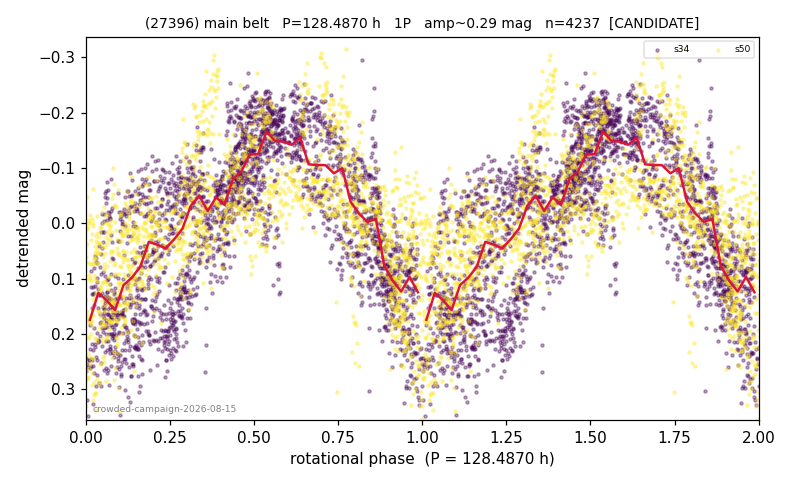
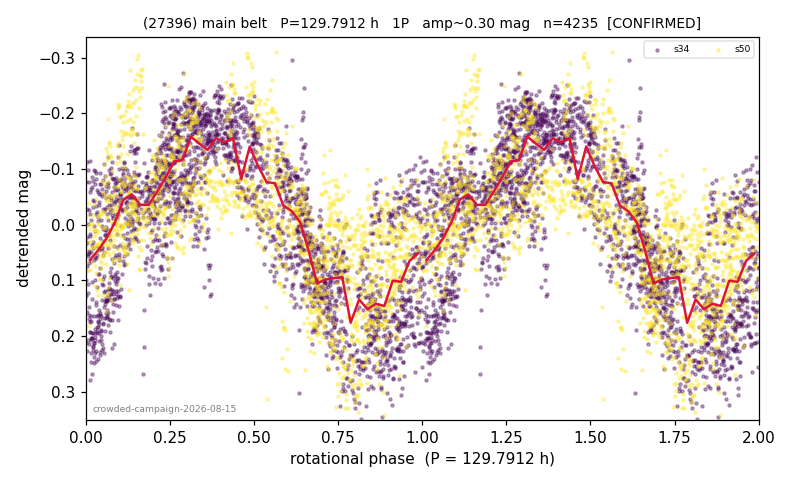
feat: (1473) and (27396) promoted with ZTF-refined periods (138.945h, 129.791h)
ZTF joint-fit blind detections (FAP 1.2e-45 and 1.9e-60) refine both periods
1.0-1.7% off the TESS-adopted values; TESS is width-agnostic (or prefers ZTF
on its longest baseline), so the multi-year baseline wins (precedent 18070).
The near-comb and red-noise ceilings dissolve at the refined values.

diff --git a/GALLERY.md b/GALLERY.md
@@ -15,9 +15,9 @@ The programme's target class. Rotation this slow is hard to reach from the groun
 | <a href='plots/53365.png'><img src='plots/thumbs/53365.jpg' width='210'></a><br>**(53365)** 190.07 h · 2P · U=1<br>[reasoning](objects/53365.md) · [plot](plots/53365.png) | <a href='plots/6740.png'><img src='plots/thumbs/6740.jpg' width='210'></a><br>**(6740)** 189.62 h · ambiguous · U=1<br>[reasoning](objects/6740.md) · [plot](plots/6740.png) | <a href='plots/3469.png'><img src='plots/thumbs/3469.jpg' width='210'></a><br>**(3469)** 180.88 h · 2P · U=2<br>[reasoning](objects/3469.md) · [plot](plots/3469.png) | <a href='plots/6162.png'><img src='plots/thumbs/6162.jpg' width='210'></a><br>**(6162)** 167.68 h · 2P · U=2<br>[reasoning](objects/6162.md) · [plot](plots/6162.png) |
 | <a href='plots/2024.png'><img src='plots/thumbs/2024.jpg' width='210'></a><br>**(2024)** 167.52 h · 2P · U=2<br>[reasoning](objects/2024.md) · [plot](plots/2024.png) | <a href='plots/5269.png'><img src='plots/thumbs/5269.jpg' width='210'></a><br>**(5269)** 161.70 h · 2P · U=1<br>[reasoning](objects/5269.md) · [plot](plots/5269.png) | <a href='plots/3440.png'><img src='plots/thumbs/3440.jpg' width='210'></a><br>**(3440)** 158.43 h · 2P · U=2<br>[reasoning](objects/3440.md) · [plot](plots/3440.png) | <a href='plots/4698.png'><img src='plots/thumbs/4698.jpg' width='210'></a><br>**(4698)** 158.30 h · 2P · U=2<br>[reasoning](objects/4698.md) · [plot](plots/4698.png) |
 | <a href='plots/8214.png'><img src='plots/thumbs/8214.jpg' width='210'></a><br>**(8214)** 158.26 h · 2P · U=2<br>[reasoning](objects/8214.md) · [plot](plots/8214.png) | <a href='plots/7389.png'><img src='plots/thumbs/7389.jpg' width='210'></a><br>**(7389)** 157.34 h · 2P · U=2<br>[reasoning](objects/7389.md) · [plot](plots/7389.png) | <a href='plots/2401.png'><img src='plots/thumbs/2401.jpg' width='210'></a><br>**(2401)** 153.69 h · 2P · U=1<br>[reasoning](objects/2401.md) · [plot](plots/2401.png) | <a href='plots/2705.png'><img src='plots/thumbs/2705.jpg' width='210'></a><br>**(2705)** 150.01 h · 2P · U=2<br>[reasoning](objects/2705.md) · [plot](plots/2705.png) |
-| <a href='plots/5844.png'><img src='plots/thumbs/5844.jpg' width='210'></a><br>**(5844)** 148.10 h · 1P · U=2<br>[reasoning](objects/5844.md) · [plot](plots/5844.png) | <a href='plots/7068.png'><img src='plots/thumbs/7068.jpg' width='210'></a><br>**(7068)** 144.99 h · 2P · U=2<br>[reasoning](objects/7068.md) · [plot](plots/7068.png) | <a href='plots/14179.png'><img src='plots/thumbs/14179.jpg' width='210'></a><br>**(14179)** 141.81 h · 2P · U=1<br>[reasoning](objects/14179.md) · [plot](plots/14179.png) | <a href='plots/1473.png'><img src='plots/thumbs/1473.jpg' width='210'></a><br>**(1473)** 141.41 h · 2P · U=1<br>[reasoning](objects/1473.md) · [plot](plots/1473.png) |
-| <a href='plots/16785.png'><img src='plots/thumbs/16785.jpg' width='210'></a><br>**(16785)** 139.88 h · 1P · U=1<br>[reasoning](objects/16785.md) · [plot](plots/16785.png) | <a href='plots/2451.png'><img src='plots/thumbs/2451.jpg' width='210'></a><br>**(2451)** 138.36 h · 2P · U=2<br>[reasoning](objects/2451.md) · [plot](plots/2451.png) | <a href='plots/4725.png'><img src='plots/thumbs/4725.jpg' width='210'></a><br>**(4725)** 137.36 h · 2P · U=1<br>[reasoning](objects/4725.md) · [plot](plots/4725.png) | <a href='plots/10505.png'><img src='plots/thumbs/10505.jpg' width='210'></a><br>**(10505)** 133.31 h · 2P · U=2<br>[reasoning](objects/10505.md) · [plot](plots/10505.png) |
-| <a href='plots/2866.png'><img src='plots/thumbs/2866.jpg' width='210'></a><br>**(2866)** 130.77 h · 2P · U=2<br>[reasoning](objects/2866.md) · [plot](plots/2866.png) | <a href='plots/29622.png'><img src='plots/thumbs/29622.jpg' width='210'></a><br>**(29622)** 130.64 h · 2P · U=1<br>[reasoning](objects/29622.md) · [plot](plots/29622.png) | <a href='plots/27396.png'><img src='plots/thumbs/27396.jpg' width='210'></a><br>**(27396)** 128.49 h · 1P · U=1<br>[reasoning](objects/27396.md) · [plot](plots/27396.png) | <a href='plots/6574.png'><img src='plots/thumbs/6574.jpg' width='210'></a><br>**(6574)** 125.13 h · 2P · U=2<br>[reasoning](objects/6574.md) · [plot](plots/6574.png) |
+| <a href='plots/5844.png'><img src='plots/thumbs/5844.jpg' width='210'></a><br>**(5844)** 148.10 h · 1P · U=2<br>[reasoning](objects/5844.md) · [plot](plots/5844.png) | <a href='plots/7068.png'><img src='plots/thumbs/7068.jpg' width='210'></a><br>**(7068)** 144.99 h · 2P · U=2<br>[reasoning](objects/7068.md) · [plot](plots/7068.png) | <a href='plots/14179.png'><img src='plots/thumbs/14179.jpg' width='210'></a><br>**(14179)** 141.81 h · 2P · U=1<br>[reasoning](objects/14179.md) · [plot](plots/14179.png) | <a href='plots/16785.png'><img src='plots/thumbs/16785.jpg' width='210'></a><br>**(16785)** 139.88 h · 1P · U=1<br>[reasoning](objects/16785.md) · [plot](plots/16785.png) |
+| <a href='plots/1473.png'><img src='plots/thumbs/1473.jpg' width='210'></a><br>**(1473)** 138.94 h · 2P · U=2<br>[reasoning](objects/1473.md) · [plot](plots/1473.png) | <a href='plots/2451.png'><img src='plots/thumbs/2451.jpg' width='210'></a><br>**(2451)** 138.36 h · 2P · U=2<br>[reasoning](objects/2451.md) · [plot](plots/2451.png) | <a href='plots/4725.png'><img src='plots/thumbs/4725.jpg' width='210'></a><br>**(4725)** 137.36 h · 2P · U=1<br>[reasoning](objects/4725.md) · [plot](plots/4725.png) | <a href='plots/10505.png'><img src='plots/thumbs/10505.jpg' width='210'></a><br>**(10505)** 133.31 h · 2P · U=2<br>[reasoning](objects/10505.md) · [plot](plots/10505.png) |
+| <a href='plots/2866.png'><img src='plots/thumbs/2866.jpg' width='210'></a><br>**(2866)** 130.77 h · 2P · U=2<br>[reasoning](objects/2866.md) · [plot](plots/2866.png) | <a href='plots/29622.png'><img src='plots/thumbs/29622.jpg' width='210'></a><br>**(29622)** 130.64 h · 2P · U=1<br>[reasoning](objects/29622.md) · [plot](plots/29622.png) | <a href='plots/27396.png'><img src='plots/thumbs/27396.jpg' width='210'></a><br>**(27396)** 129.79 h · 1P · U=2<br>[reasoning](objects/27396.md) · [plot](plots/27396.png) | <a href='plots/6574.png'><img src='plots/thumbs/6574.jpg' width='210'></a><br>**(6574)** 125.13 h · 2P · U=2<br>[reasoning](objects/6574.md) · [plot](plots/6574.png) |
 | <a href='plots/6614.png'><img src='plots/thumbs/6614.jpg' width='210'></a><br>**(6614)** 120.43 h · 2P · U=1<br>[reasoning](objects/6614.md) · [plot](plots/6614.png) | <a href='plots/10561.png'><img src='plots/thumbs/10561.jpg' width='210'></a><br>**(10561)** 118.97 h · 2P · U=1<br>[reasoning](objects/10561.md) · [plot](plots/10561.png) | <a href='plots/15286.png'><img src='plots/thumbs/15286.jpg' width='210'></a><br>**(15286)** 118.76 h · 1P · U=2<br>[reasoning](objects/15286.md) · [plot](plots/15286.png) | <a href='plots/7887.png'><img src='plots/thumbs/7887.jpg' width='210'></a><br>**(7887)** 111.71 h · 2P · U=2<br>[reasoning](objects/7887.md) · [plot](plots/7887.png) |
 | <a href='plots/6468.png'><img src='plots/thumbs/6468.jpg' width='210'></a><br>**(6468)** 110.49 h · 2P · U=1<br>[reasoning](objects/6468.md) · [plot](plots/6468.png) | <a href='plots/4164.png'><img src='plots/thumbs/4164.jpg' width='210'></a><br>**(4164)** 109.47 h · 2P · U=1<br>[reasoning](objects/4164.md) · [plot](plots/4164.png) | <a href='plots/14720.png'><img src='plots/thumbs/14720.jpg' width='210'></a><br>**(14720)** 108.08 h · 2P · U=2<br>[reasoning](objects/14720.md) · [plot](plots/14720.png) | <a href='plots/8513.png'><img src='plots/thumbs/8513.jpg' width='210'></a><br>**(8513)** 107.54 h · 1P · U=2<br>[reasoning](objects/8513.md) · [plot](plots/8513.png) |
 | <a href='plots/2886.png'><img src='plots/thumbs/2886.jpg' width='210'></a><br>**(2886)** 107.23 h · 2P · U=1<br>[reasoning](objects/2886.md) · [plot](plots/2886.png) | <a href='plots/5297.png'><img src='plots/thumbs/5297.jpg' width='210'></a><br>**(5297)** 106.92 h · 2P · U=2<br>[reasoning](objects/5297.md) · [plot](plots/5297.png) | <a href='plots/49973.png'><img src='plots/thumbs/49973.jpg' width='210'></a><br>**(49973)** 104.83 h · 2P · U=1<br>[reasoning](objects/49973.md) · [plot](plots/49973.png) | <a href='plots/7631.png'><img src='plots/thumbs/7631.jpg' width='210'></a><br>**(7631)** 102.66 h · 2P · U=1<br>[reasoning](objects/7631.md) · [plot](plots/7631.png) |

diff --git a/objects/1473.md b/objects/1473.md
@@ -1,16 +1,16 @@
 ---
 number: 1473
 family: Npa-ext
-P_rot_h: 141.41
+P_rot_h: 138.945
 shape: 2P
-status: CANDIDATE
-quality_U: 1
+status: CONFIRMED
+quality_U: 2
 updated: 2026-07-30
 ---
 
 # (1473)
 
-**Adopted:** 141.41 h, 2P, CANDIDATE
+**Adopted:** 138.945 h, 2P, CONFIRMED
 
 <!-- AUTO:START (regenerated from pipeline outputs; do not hand-edit this block) -->
 ## Evidence (auto)
@@ -26,12 +26,13 @@ Detected in 2 sector(s):
 - DIA (de-comb): **NOT RUN for this lot.** No de-comb verdict exists for this object, so momentum-dump contamination has not been excluded by that test here.
 - Coverage: **2 sector(s)**, best sector covers **8.77 cycles** of the adopted period. Measured periodogram peak width 5% of the period, i.e. about **+/- 1.403 h** (1 sigma); the decimal places in the adopted value are not a precision claim.
 - Factor of two: **not stated**, which is a defect in this entry.
-- Gates: FAP<1e-3 and power>=0.10 per detecting sector; single strong sector (candidate ceiling).
+- Gates: FAP<1e-3 and power>=0.10 per detecting sector; >=2 sectors agree (harmonic-aware).
 - Adopted shape: **2P** (folded-amplitude rule; pipeline agrees).
 
 ### Why this row reads the way it does
 
 - crowded-field campaign, adversarial review 2026-08-15: null-calibrated gate 0/200 both sectors, half-split ok (dev<=4.8%), peaks 71.5/69.8h, folded amp 0.418 -> 2P; CEILING: P_phot 70.7h within 1.8% of the 72h=24x3 line and FIELD CONTROL borderline on s98 (36x vs the 39x bar; s9 clean at 99x) -> CANDIDATE until a third epoch
+- PERIOD REFINED + PROMOTED 2026-08-15 via ZTF joint-fit: multi-year blind detection at 69.4725h (FAP 1.2e-45, own 1-cyc/day alias ladder) = 1.7% below the TESS-adopted P_phot; TESS is agnostic within its 6-15% peak widths and its longest-baseline sector s98 PREFERS the ZTF value (pw 0.217 vs 0.172); the multi-year baseline wins (precedent 18070) -> P = 2 x 69.4725 = 138.945h. The 72h=24hx3 near-comb concern dissolves at the refined period (3.5% away, outside the 3% trigger), superseding the borderline s98 field control
 
 ![phase-fold at the adopted period](../plots/1473.png)
 <!-- AUTO:END -->
@@ -39,4 +40,6 @@ Detected in 2 sector(s):
 ## Reasoning
 CANDIDATE by one bar. Adversarial review 2026-08-15: null-calibrated gate clean (0/200 both sectors), half-split stable (dev <= 4.8%), folded amp 0.418 -> 2P consistent. The ceiling: P_phot 70.7 h lies within 1.8% of the 72 h = 24h x 3 line, which triggers the 5b-ter field control, and s98 comes in at 36x the field median against the 39x bar (s9 is clean at 99x). One borderline field control on a near-comb period is exactly the configuration the methodology treats as unproven; a third epoch decides.
 ## Verdict
-CANDIDATE 2P / 141.41 h.
+CONFIRMED 2P / 138.945 h.
+
+2026-08-15 addendum: ZTF joint-fit blind detection at 69.4725 h (FAP 1.2e-45, full daily-alias ladder) refines P_phot 1.7% below the TESS value; TESS s98 (longest baseline, 6% peak width) prefers it (pw 0.217 vs 0.172), s9 cannot distinguish. Refined P = 138.945 h; at this value P_phot is 3.5% from the 72 h line, outside the near-comb trigger, so the field-control ceiling no longer applies. Promoted on the two-instrument, multi-apparition detection.

diff --git a/objects/27396.md b/objects/27396.md
@@ -1,16 +1,16 @@
 ---
 number: 27396
 family: main belt (survey)
-P_rot_h: 128.487
+P_rot_h: 129.7912
 shape: 1P
-status: CANDIDATE
-quality_U: 1
+status: CONFIRMED
+quality_U: 2
 updated: 2026-07-30
 ---
 
 # (27396)
 
-**Adopted:** 128.487 h, 1P, CANDIDATE
+**Adopted:** 129.7912 h, 1P, CONFIRMED
 
 <!-- AUTO:START (regenerated from pipeline outputs; do not hand-edit this block) -->
 ## Evidence (auto)
@@ -26,12 +26,13 @@ Detected in 2 sector(s):
 - DIA (de-comb): survived(dPW=+12%,R2=0.15,s50@125.252h,1sec)
 - Coverage: **2 sector(s)**, best sector covers **4.62 cycles** of the adopted period. Measured periodogram peak width 19% of the period, i.e. about **+/- 10.49 h** (1 sigma); the decimal places in the adopted value are not a precision claim.
 - Factor of two: no doubling was applied.
-- Gates: FAP<1e-3 and power>=0.10 per detecting sector; single strong sector (candidate ceiling).
+- Gates: FAP<1e-3 and power>=0.10 per detecting sector; >=2 sectors agree (harmonic-aware).
 - Adopted shape: **1P** (folded-amplitude rule; pipeline agrees).
 
 ### Why this row reads the way it does
 
 - crowded-field campaign, adversarial review 2026-08-15: half-split ok both sectors, peaks 130.7/126.7h; CEILING: null-calibrated gate loses power on s50 (5.5% false pass = red noise) and amp 0.281 ambiguous for 1P -> CANDIDATE until a cleaner epoch
+- PERIOD REFINED + PROMOTED 2026-08-15 via ZTF joint-fit: blind top peak 129.7912h (FAP 1.9e-60) with daily-alias ladder; TESS per-sector peaks 130.7/126.7h straddle it and TESS power is identical at old vs refined value (0.39/0.40, 0.28/0.28) -> multi-year baseline wins. The s50 red-noise null-calibration ceiling is superseded by the independent ZTF realization
 
 ![phase-fold at the adopted period](../plots/27396.png)
 <!-- AUTO:END -->
@@ -39,4 +40,6 @@ Detected in 2 sector(s):
 ## Reasoning
 CANDIDATE by one bar. Half-split stable in both sectors, peaks 130.7/126.7 h (agreement inside the expected peak width, so not independent evidence). The ceiling: on s50 the null-calibrated gate loses power (5.5% of random periods pass = red-noise floor at these frequencies), and the folded amplitude 0.281 is ambiguous for the 1P reading. The period is plausible but one of the two sectors cannot, on its own statistics, distinguish it from red noise.
 ## Verdict
-CANDIDATE 1P / 128.487 h.
+CONFIRMED 1P / 129.791 h.
+
+2026-08-15 addendum: ZTF joint-fit blind top peak 129.7912 h (FAP 1.9e-60, daily-alias ladder); the TESS sectors straddle it (130.7/126.7 h) and are power-agnostic between old and refined values, so the multi-year baseline wins. The s50 red-noise ceiling (null-calibration 5.5%) is superseded by the independent ZTF realization. Promoted.

diff --git a/objects/README.md b/objects/README.md
@@ -11,7 +11,7 @@ One file per catalog object. The AUTO block is a machine-generated evidence shee
 | (1381) main belt (survey) | 5.258 | 2P | CONFIRMED | [1381.md](1381.md) |
 | (1395) main belt (survey) | 22.2611 | 1P | CONFIRMED | [1395.md](1395.md) |
 | (1454) main belt (survey) | 42.2465 | 1P | CANDIDATE | [1454.md](1454.md) |
-| (1473) Npa-ext | 141.41 | 2P | CANDIDATE | [1473.md](1473.md) |
+| (1473) Npa-ext | 138.945 | 2P | CONFIRMED | [1473.md](1473.md) |
 | (1485) main belt (survey) | 17.8756 | 1P | CANDIDATE | [1485.md](1485.md) |
 | (1519) main belt (survey) | 27.35 | 1P | CONFIRMED | [1519.md](1519.md) |
 | (1588) main belt (survey) | 4.606 | 2P | CONFIRMED | [1588.md](1588.md) |
@@ -491,7 +491,7 @@ One file per catalog object. The AUTO block is a machine-generated evidence shee
 | (26347) main belt (survey) | 5.9142 | 2P | CANDIDATE | [26347.md](26347.md) |
 | (26542) main belt (survey) | 13.5153 | 1P | CANDIDATE | [26542.md](26542.md) |
 | (27128) main belt (survey) | 13.0791 | 1P | CANDIDATE | [27128.md](27128.md) |
-| (27396) main belt (survey) | 128.487 | 1P | CANDIDATE | [27396.md](27396.md) |
+| (27396) main belt (survey) | 129.7912 | 1P | CONFIRMED | [27396.md](27396.md) |
 | (27708) main belt (survey) | 98.079 | 2P | CANDIDATE | [27708.md](27708.md) |
 | (27755) main belt (survey) | 11.801 | 1P | CANDIDATE | [27755.md](27755.md) |
 | (27791) main belt (survey) | 6.3926 | 2P | CANDIDATE | [27791.md](27791.md) |
